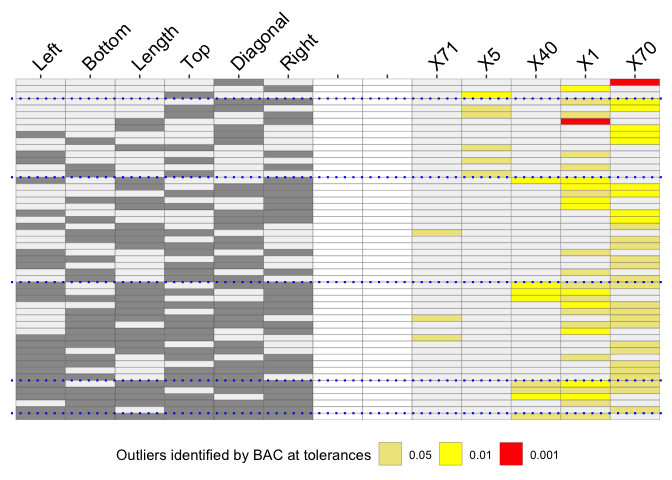
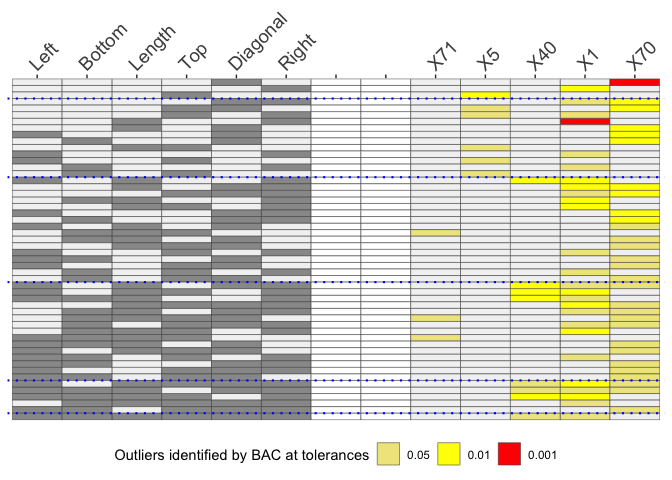
updated README.md

diff --git a/README.md b/README.md
@@ -6,10 +6,9 @@ OutliersO3 is for visualising results of outlier analyses. Overview of
 Outliers (O3) plots show which cases are identified as potential
 outliers for different combinations of variables from a dataset.
 
-You can compare sets of outliers identified by up to six different
+You can compare sets of outliers identified by up to five different
 methods. You can also compare results for a single method at up to three
-different tolerance
-levels.
+different tolerance levels.
 
 ## Install in the usual way
 
@@ -32,15 +31,10 @@ the right of the plot.
 
 ``` r
 library(OutliersO3)
-#> Registered S3 method overwritten by 'GGally':
-#>   method from   
-#>   +.gg   ggplot2
 data(banknote, package="mclust")
 data <- banknote %>% filter(Status=="genuine") %>% select(-Status)
 pB <- O3prep(data, method="BAC", tols=c(0.05, 0.01, 0.001), boxplotLimits=c(6,10,12))
 pX <- O3plotT(pB)
-#> Warning: Vectorized input to `element_text()` is not officially supported.
-#> Results may be unexpected or may change in future versions of ggplot2.
 pX$gO3
 ```
 